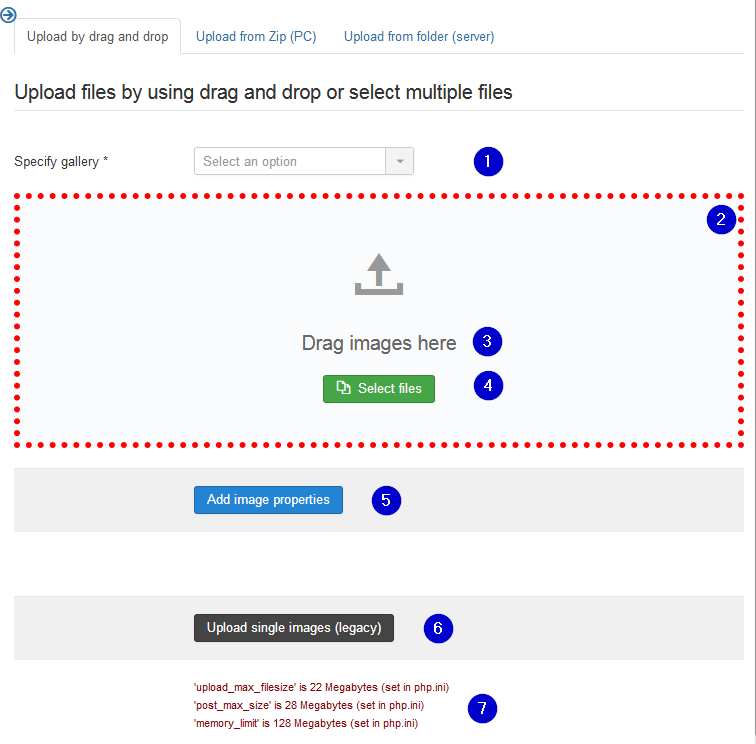
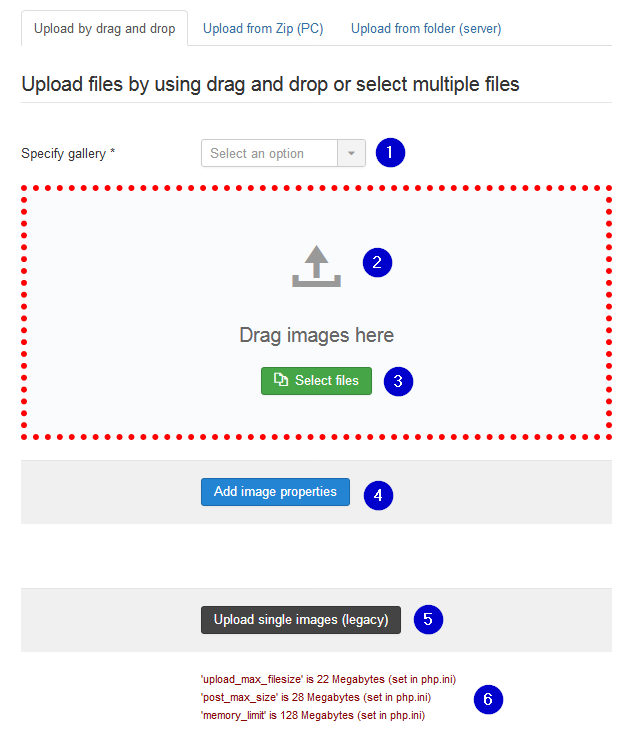
Improved drag and drop documentation part

diff --git a/Documentation/Upload/upload.md b/Documentation/Upload/upload.md
@@ -15,11 +15,60 @@ More images can be added in that form.
 
 ![Drag and Drop](https://github.com/RSGallery2/RSGallery2_Project/blob/master/Documentation/Images/Upload.DragAndDrop.01.png?raw=true)
 
-(1) A gallery selection is needed to enable drag and drop
-(2) .....
+(1) Specify gallery
 
+First select an existing gallery This will enable drag and drop ands display the drop area in green
 
+(2) Drag and drop area
 
+The drag and drop area is marked with a red or green dotted border. The color changes to green when a gallery is selected. An error message appears when a image is dropped while the border is red.  
+When images are dropped then they are transferred to the server and assigned to the gallery. The display-, thumb- and watermarked images are created and on success the image is displayed in the drag and drop area.  
+Ass soon as the image is displayed it is secure to assume that the image is stored in the database and assigned to the gallery
+
+(3) Select files
+
+This is an other way to select multiple images form a folder on the PC- Press this button and you can move to the image folder and select several images to be downloaded. On exit these files are downloaded
+
+This is especially helpful if your operation system remembers the last selected folder and displays it again for the image upload
+
+(4) Add image properties
+
+After the dropped images appear (are shown) in their area here is provided a batch handling to assign the properties "title" and "description"
+More below on description of the "Properties uploaded images" view
+
+Tip:  This functionality can also be reached from the image list view. Select the images to be handled and use button batch and the select "Images Properties" button
+
+(5) Upload single images (Legacy)
+This button leads to the old "legacy" version of single image upload.  
+When the drag and drop function has enough experience and no user complains then drag and drop is faster and this function will be removed
+
+(6) Upload file size
+On the bottom is shown the setting of some php variables from the system (from php.ini file) related to the upload process. Even if the file itself complies with all limits the upload itself may fail.
+
+#### Restrictions
+
+ * File size: The upload may hang if the file size is too big. The working file size is not only dependent on the system settings for upload (see point (6)). Also the used library (GD see configuration) may stumble
+
+ ### Upload files using drag and drop: View after some uploads
+
+ ![Upload start view](https://github.com/RSGallery2/RSGallery2_Project/blob/master/Documentation/Images/Upload.DragAndDrop.02.png?raw=true)
+
+ (1) Drag and drop area (filled)
+ After a gallery is selected the dotted border is green. Dropped images do appear in this area after the transfer process is completed.
+
+ (2) Process bars
+
+ For each dropped file a progress bar appears. It is red as long as the file is not completely transferred. In each state it tells the amount of transferred parts of the file.
+
+ Attention: Even if the green bar is at 100% telling that the file is completely transferred the server needs time to create the dependent rsgallery2 images and the process is not finished until the matching image is displayed in the drag and drop area
+
+ (3) Add image properties
+ A click on button "Add image properties" will lead to a page where properties can be assigned to all shown images at once  (batch). The title and the description properties can be edited there.
+ This is similar to the second page on upload in previous rsgallery2 versions.
+
+ It is not necessary to use this view when no title or description editing needed.  
+
+ Info: On creation of the image data on the server side the title is preset from the image name automatically.
 
 ## Upload from Zip file (PC)
 A zip file containing several images can be uploaded to the server, unzipped and the images assigned to a gallery.

diff --git a/Documentation/Upload/uploadDragAndDrop.md b/Documentation/Upload/uploadDragAndDrop.md
@@ -11,7 +11,7 @@ The first tab of the new download form looks like following Image. It shows the 
 
 (1) Specify gallery
 
-First select an existing gallery
+First select an existing gallery This will enable drag and drop ands display the drop area in green
 
 (2) Drag and drop area
 
@@ -34,7 +34,7 @@ Tip:  This functionality can also be reached from the image list view. Select th
 
 (5) Upload single images (Legacy)
 This button leads to the old "legacy" version of single image upload.  
-When the drag and drop function has enough experience and no user complains then it is faster and this function will be removed
+When the drag and drop function has enough experience and no user complains then drag and drop is faster and this function will be removed
 
 (6) Upload file size
 On the bottom is shown the setting of some php variables from the system (from php.ini file) related to the upload process. Even if the file itself complies with all limits the upload itself may fail.
@@ -42,14 +42,11 @@ Example: Sometimes the bytes are transferred as pure ASCII: So 7 bits are used a
 
 #### Restrictions
 
- * Uploading more that 20 Files at once: This may lead to wrong order number as the call to the database is asynchronous and therefore if the system is busy the same order number may generated twice or for several images
- * Filesize: The working file size is not only dependent on the system settings for upload (see point (6)). Also the used library (GD see configuration) may stumble
+  * File size: The upload may hang if the file size is too big. The working file size is not only dependent on the system settings for upload (see point (6)). Also the used library (GD see configuration) may stumble
 
-###     
+### Upload files using drag and drop: View after some uploads
 
 ![Upload start view](https://github.com/RSGallery2/RSGallery2_Project/blob/master/Documentation/Images/Upload.DragAndDrop.02.png?raw=true)
-
-### Upload files using drag and drop: Page after some uploads
 
 (1) Drag and drop area (filled)
 After a gallery is selected the dotted border is green. Dropped images do appear in this area after the transfer process is completed.
@@ -64,7 +61,7 @@ Attention: Even if the green bar is at 100% telling that the file is completely 
 A click on button "Add image properties" will lead to a page where properties can be assigned to all shown images at once  (batch). The title and the description properties can be edited there.
 This is similar to the second page on upload in previous rsgallery2 versions.
 
-It is not necessary to use this view when no title or description is needed.  
+It is not necessary to use this view when no title or description editing is needed.  
 
 Info: On creation of the image data on the server side the title is preset from the image name automatically.
 
